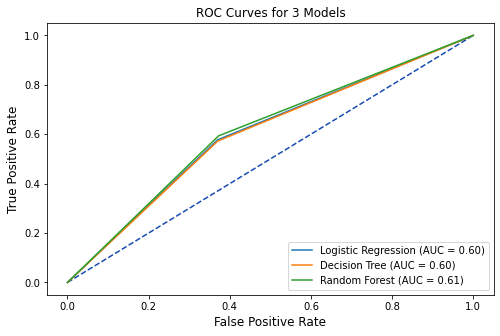
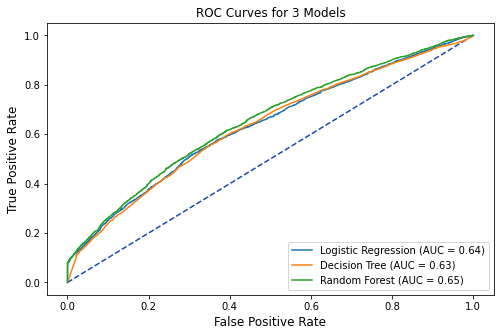
updated repo

Changed region(s): [[0.12, 0.0893, 0.96, 0.8333], [0.93, 0.7143, 0.96, 0.744], [0.9, 0.8036, 0.93, 0.8333]]

diff --git a/Case Study/Accidents_Data_Case_Study.html b/Case Study/Accidents_Data_Case_Study.html
@@ -15488,7 +15488,7 @@ $$\hat{p}(y) = \frac{\text{exp}(b_0+b_1x_1+b_2x_2+\cdot\cdot\cdot+b_px_p)}{1+\te
   <th>Date:</th>            <td>Tue, 01 Mar 2022</td> <th>  Pseudo R-squ.:     </th>  <td>0.06152</td>
 </tr>
 <tr>
-  <th>Time:</th>                <td>21:56:26</td>     <th>  Log-Likelihood:    </th> <td> -27434.</td>
+  <th>Time:</th>                <td>22:39:49</td>     <th>  Log-Likelihood:    </th> <td> -27434.</td>
 </tr>
 <tr>
   <th>converged:</th>             <td>True</td>       <th>  LL-Null:           </th> <td> -29233.</td>
@@ -16300,23 +16300,28 @@ weighted avg       0.61      0.61      0.61      8437
 <div class="prompt input_prompt">In&nbsp;[39]:</div>
 <div class="inner_cell">
     <div class="input_area">
-<div class=" highlight hl-ipython3"><pre><span></span><span class="c1"># plot all of the roc curves on one graph</span>
-<span class="n">tuned_lr_roc</span> <span class="o">=</span> <span class="n">metrics</span><span class="o">.</span><span class="n">roc_curve</span><span class="p">(</span><span class="n">y_test</span><span class="p">,</span><span class="n">tuned_lr1</span><span class="p">)</span>
-<span class="n">fpr</span><span class="p">,</span><span class="n">tpr</span><span class="p">,</span><span class="n">thresholds</span> <span class="o">=</span> <span class="n">metrics</span><span class="o">.</span><span class="n">roc_curve</span><span class="p">(</span><span class="n">y_test</span><span class="p">,</span><span class="n">tuned_lr1</span><span class="p">)</span>
+<div class=" highlight hl-ipython3"><pre><span></span><span class="c1"># extract predicted probabilities from models</span>
+<span class="n">tuned_lr_pred</span> <span class="o">=</span> <span class="n">tuned_lr</span><span class="o">.</span><span class="n">predict_proba</span><span class="p">(</span><span class="n">X_test</span><span class="p">)[:,</span> <span class="mi">1</span><span class="p">]</span>
+<span class="n">tuned_tree_pred</span> <span class="o">=</span> <span class="n">tuned_tree</span><span class="o">.</span><span class="n">predict_proba</span><span class="p">(</span><span class="n">X_test</span><span class="p">)[:,</span> <span class="mi">1</span><span class="p">]</span>
+<span class="n">tuned_rf_pred</span> <span class="o">=</span> <span class="n">tuned_rf</span><span class="o">.</span><span class="n">predict_proba</span><span class="p">(</span><span class="n">X_test</span><span class="p">)[:,</span> <span class="mi">1</span><span class="p">]</span>
+
+<span class="c1"># plot all of the roc curves on one graph</span>
+<span class="n">tuned_lr_roc</span> <span class="o">=</span> <span class="n">metrics</span><span class="o">.</span><span class="n">roc_curve</span><span class="p">(</span><span class="n">y_test</span><span class="p">,</span><span class="n">tuned_lr_pred</span><span class="p">)</span>
+<span class="n">fpr</span><span class="p">,</span><span class="n">tpr</span><span class="p">,</span><span class="n">thresholds</span> <span class="o">=</span> <span class="n">metrics</span><span class="o">.</span><span class="n">roc_curve</span><span class="p">(</span><span class="n">y_test</span><span class="p">,</span><span class="n">tuned_lr_pred</span><span class="p">)</span>
 <span class="n">tuned_lr_auc</span> <span class="o">=</span> <span class="n">metrics</span><span class="o">.</span><span class="n">auc</span><span class="p">(</span><span class="n">fpr</span><span class="p">,</span> <span class="n">tpr</span><span class="p">)</span>
 <span class="n">tuned_lr_plot</span> <span class="o">=</span> <span class="n">metrics</span><span class="o">.</span><span class="n">RocCurveDisplay</span><span class="p">(</span><span class="n">fpr</span><span class="o">=</span><span class="n">fpr</span><span class="p">,</span><span class="n">tpr</span><span class="o">=</span><span class="n">tpr</span><span class="p">,</span> 
 <span class="n">roc_auc</span> <span class="o">=</span> <span class="n">tuned_lr_auc</span><span class="p">,</span> 
 <span class="n">estimator_name</span> <span class="o">=</span> <span class="s1">&#39;Logistic Regression&#39;</span><span class="p">)</span>
 
-<span class="n">tuned_tree_roc</span> <span class="o">=</span> <span class="n">metrics</span><span class="o">.</span><span class="n">roc_curve</span><span class="p">(</span><span class="n">y_test</span><span class="p">,</span><span class="n">tuned_tree1</span><span class="p">)</span>
-<span class="n">fpr</span><span class="p">,</span><span class="n">tpr</span><span class="p">,</span><span class="n">thresholds</span> <span class="o">=</span> <span class="n">metrics</span><span class="o">.</span><span class="n">roc_curve</span><span class="p">(</span><span class="n">y_test</span><span class="p">,</span><span class="n">tuned_tree1</span><span class="p">)</span>
+<span class="n">tuned_tree_roc</span> <span class="o">=</span> <span class="n">metrics</span><span class="o">.</span><span class="n">roc_curve</span><span class="p">(</span><span class="n">y_test</span><span class="p">,</span><span class="n">tuned_tree_pred</span><span class="p">)</span>
+<span class="n">fpr</span><span class="p">,</span><span class="n">tpr</span><span class="p">,</span><span class="n">thresholds</span> <span class="o">=</span> <span class="n">metrics</span><span class="o">.</span><span class="n">roc_curve</span><span class="p">(</span><span class="n">y_test</span><span class="p">,</span><span class="n">tuned_tree_pred</span><span class="p">)</span>
 <span class="n">tuned_tree_auc</span> <span class="o">=</span> <span class="n">metrics</span><span class="o">.</span><span class="n">auc</span><span class="p">(</span><span class="n">fpr</span><span class="p">,</span> <span class="n">tpr</span><span class="p">)</span>
 <span class="n">tuned_tree_plot</span> <span class="o">=</span> <span class="n">metrics</span><span class="o">.</span><span class="n">RocCurveDisplay</span><span class="p">(</span><span class="n">fpr</span><span class="o">=</span><span class="n">fpr</span><span class="p">,</span><span class="n">tpr</span><span class="o">=</span><span class="n">tpr</span><span class="p">,</span>
 <span class="n">roc_auc</span><span class="o">=</span><span class="n">tuned_tree_auc</span><span class="p">,</span> 
 <span class="n">estimator_name</span> <span class="o">=</span> <span class="s1">&#39;Decision Tree&#39;</span><span class="p">)</span>
 
-<span class="n">tuned_rf1_roc</span> <span class="o">=</span> <span class="n">metrics</span><span class="o">.</span><span class="n">roc_curve</span><span class="p">(</span><span class="n">y_test</span><span class="p">,</span> <span class="n">tuned_rf1</span><span class="p">)</span>
-<span class="n">fpr</span><span class="p">,</span><span class="n">tpr</span><span class="p">,</span><span class="n">thresholds</span> <span class="o">=</span> <span class="n">metrics</span><span class="o">.</span><span class="n">roc_curve</span><span class="p">(</span><span class="n">y_test</span><span class="p">,</span><span class="n">tuned_rf1</span><span class="p">)</span>
+<span class="n">tuned_rf1_roc</span> <span class="o">=</span> <span class="n">metrics</span><span class="o">.</span><span class="n">roc_curve</span><span class="p">(</span><span class="n">y_test</span><span class="p">,</span> <span class="n">tuned_rf_pred</span><span class="p">)</span>
+<span class="n">fpr</span><span class="p">,</span><span class="n">tpr</span><span class="p">,</span><span class="n">thresholds</span> <span class="o">=</span> <span class="n">metrics</span><span class="o">.</span><span class="n">roc_curve</span><span class="p">(</span><span class="n">y_test</span><span class="p">,</span><span class="n">tuned_rf_pred</span><span class="p">)</span>
 <span class="n">tuned_rf1_auc</span> <span class="o">=</span> <span class="n">metrics</span><span class="o">.</span><span class="n">auc</span><span class="p">(</span><span class="n">fpr</span><span class="p">,</span> <span class="n">tpr</span><span class="p">)</span>
 <span class="n">tuned_rf1_plot</span> <span class="o">=</span> <span class="n">metrics</span><span class="o">.</span><span class="n">RocCurveDisplay</span><span class="p">(</span><span class="n">fpr</span><span class="o">=</span><span class="n">fpr</span><span class="p">,</span><span class="n">tpr</span><span class="o">=</span><span class="n">tpr</span><span class="p">,</span> 
 <span class="n">roc_auc</span><span class="o">=</span><span class="n">tuned_rf1_auc</span><span class="p">,</span> 
@@ -16490,9 +16495,9 @@ weighted avg       0.61      0.61      0.61      8437
 <pre>+---------------------+--------+--------+
 |        Model        |  AUC   |  MSE   |
 +---------------------+--------+--------+
-| Logistic Regression | 0.6036 | 0.3965 |
-|    Decision Tree    | 0.6009 | 0.3992 |
-|    Random Forest    | 0.6105 | 0.3896 |
+| Logistic Regression | 0.6357 | 0.3965 |
+|    Decision Tree    | 0.6326 | 0.3992 |
+|    Random Forest    | 0.653  | 0.3896 |
 +---------------------+--------+--------+
 </pre>
 </div>
